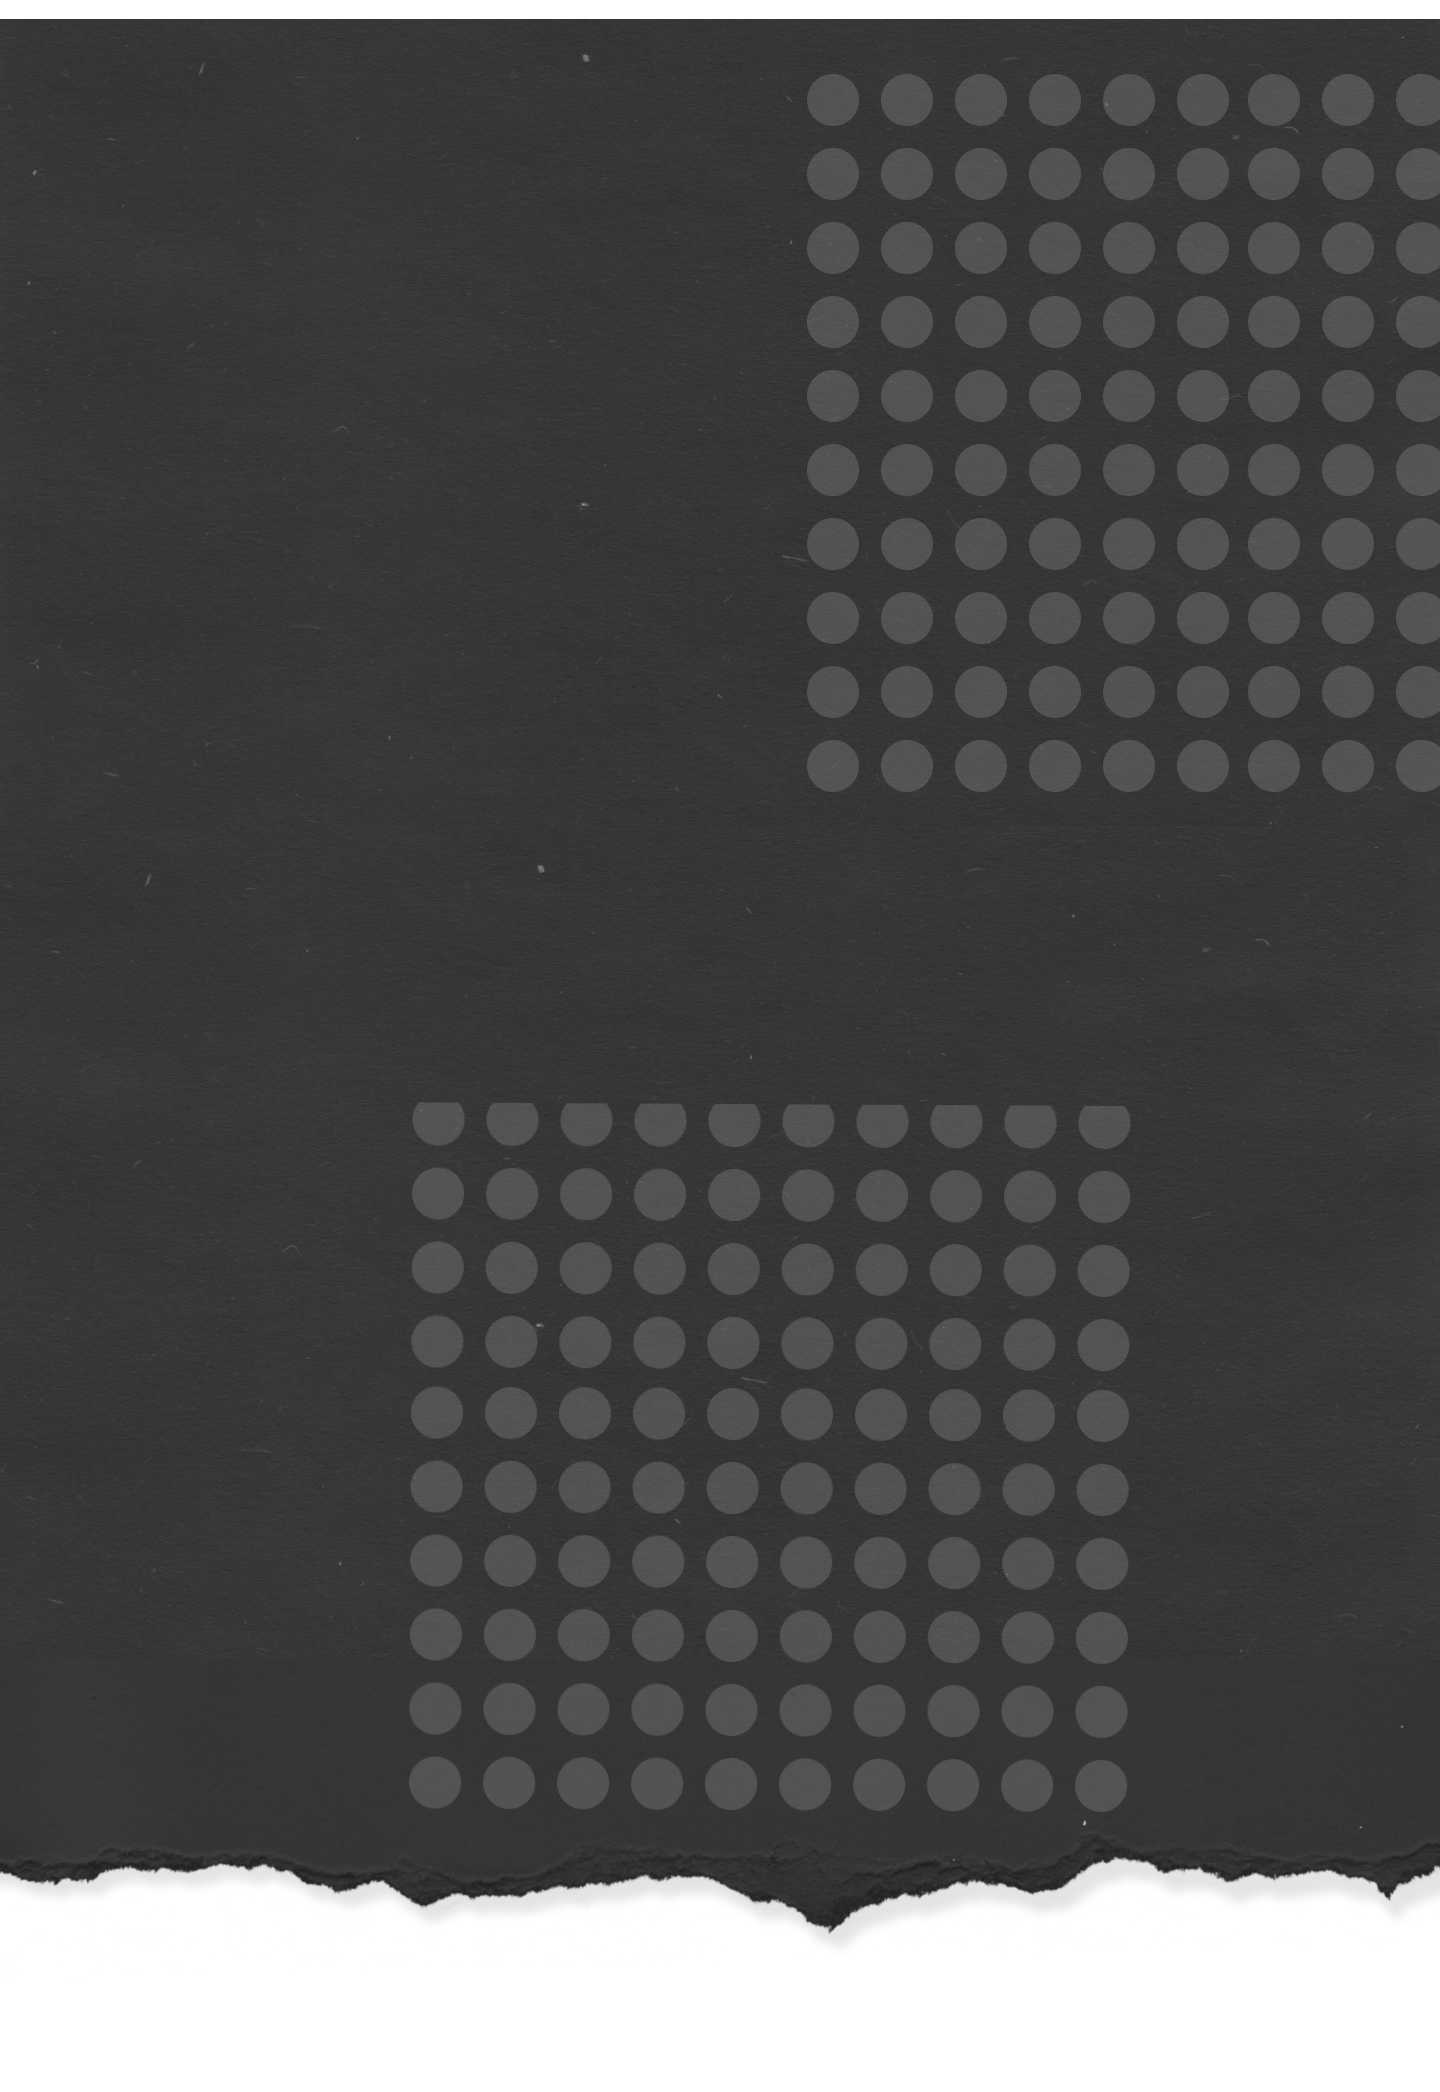
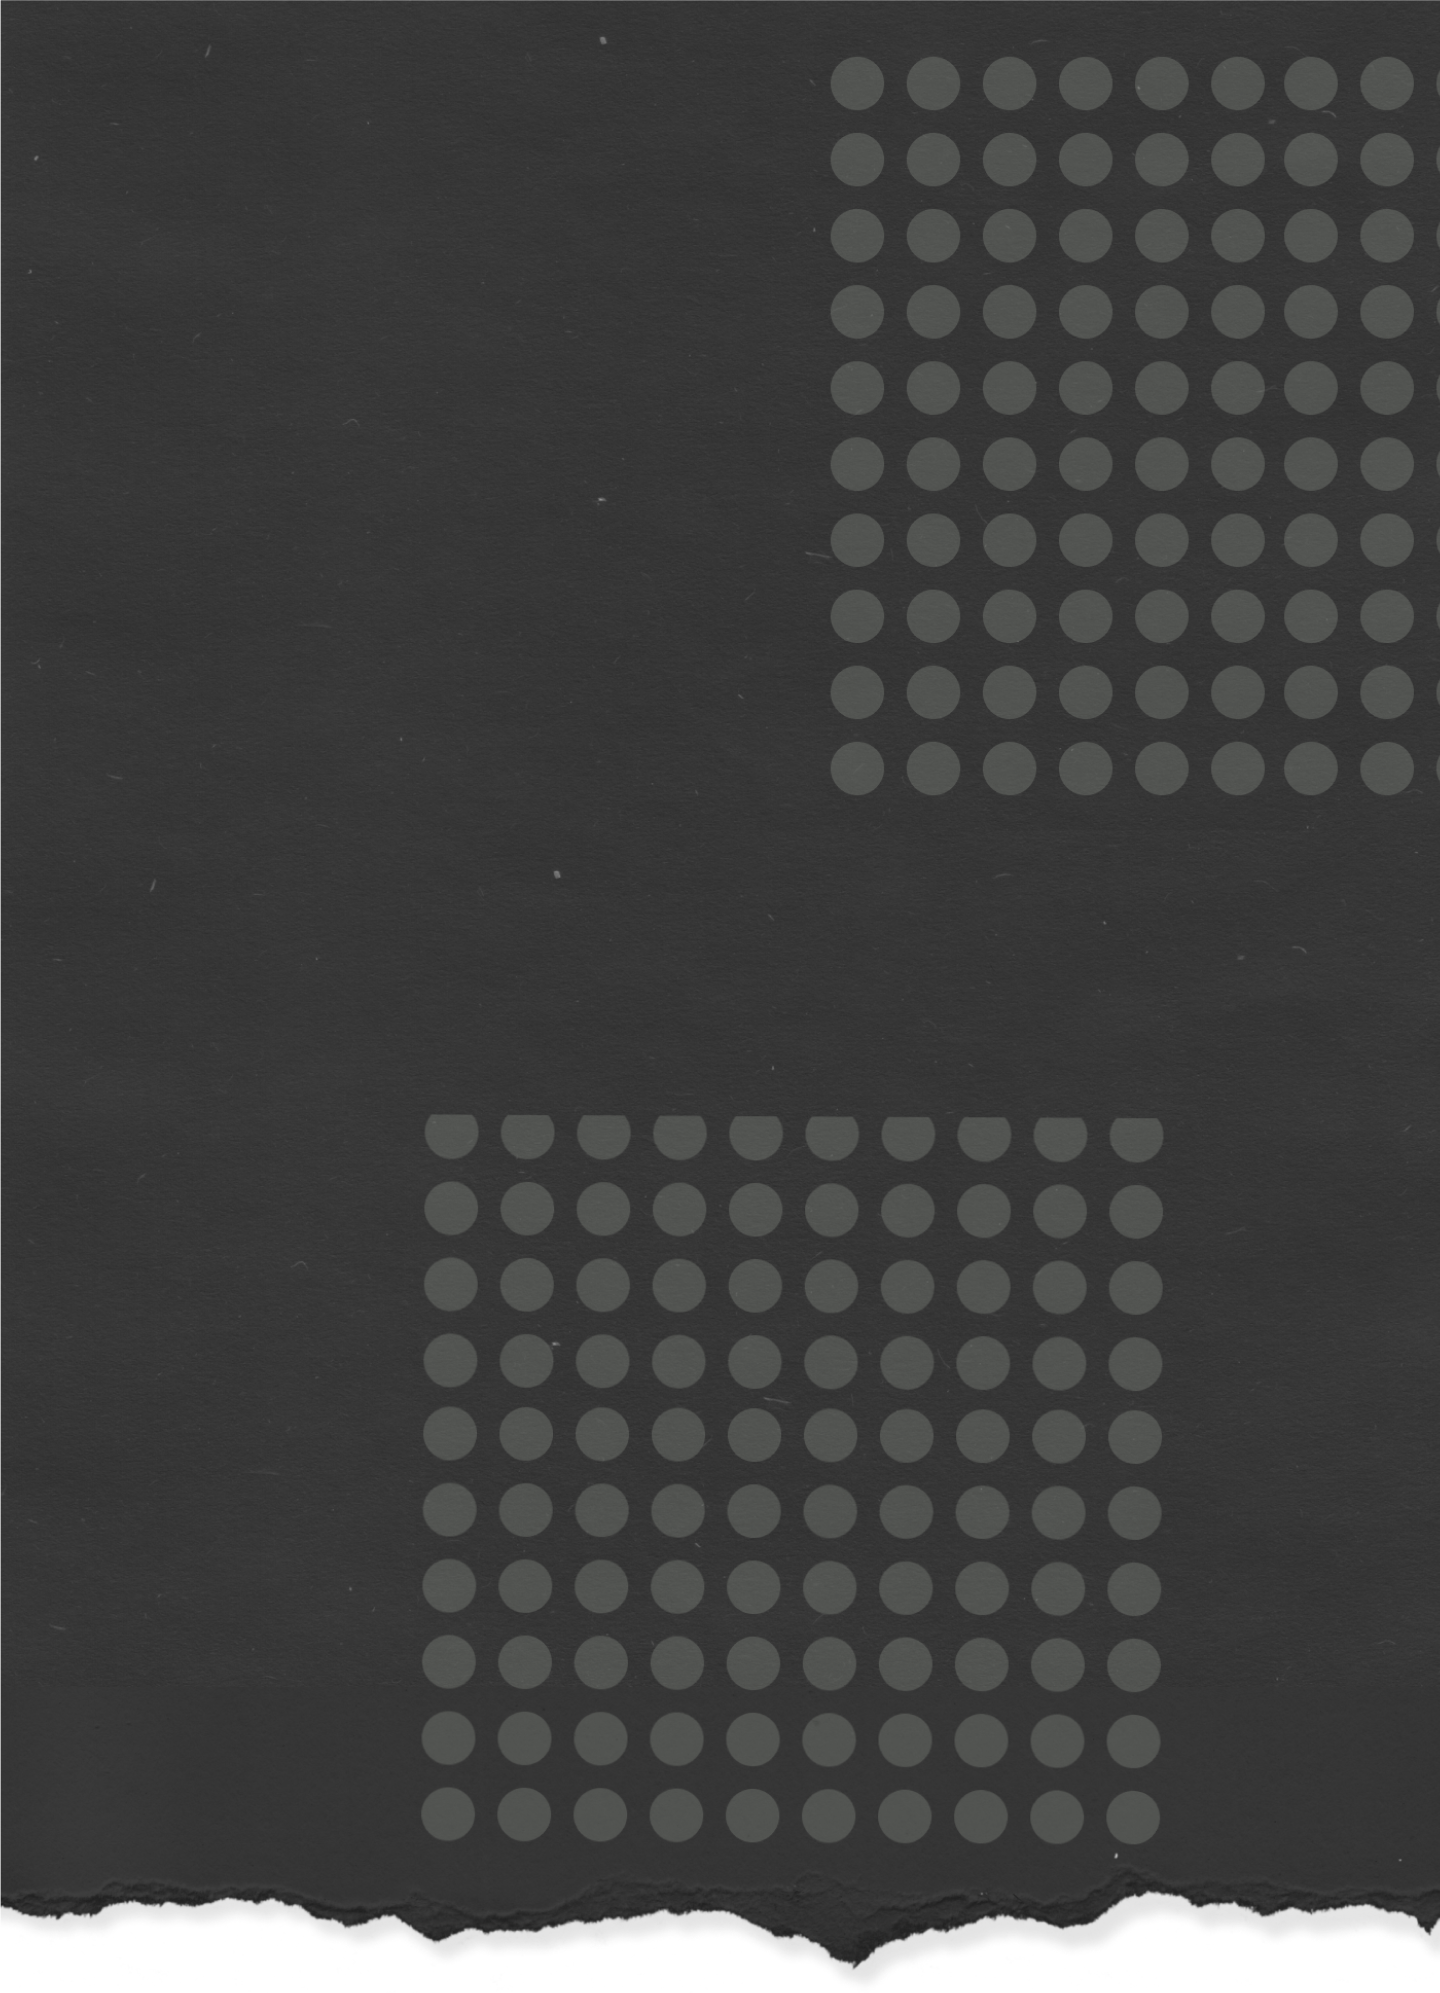
pre-last

Changed region(s): [[0.0, 0.5289, 1.0, 0.9955], [0.0, 0.0, 1.0, 0.4044]]

diff --git a/src/scss/layout/illustrations.scss b/src/scss/layout/illustrations.scss
@@ -1,49 +1,59 @@
 .illustrations {
+    width: 100%;
     position: relative;
-    background: url('../images/bg/bg7.png') center center/100% 100% no-repeat;
-    height: 2092px;
+    background-color: black;
+    background: url('../images/bg/bg7.png') center center/100.1% 100% no-repeat;
+    min-height: 2620px;
+    margin-top: 795px;
 
     &__top {
-        width: 100%;
-        padding: 30px 152px 0 170px;
-        display: flex;
-        flex-direction: row;
-        justify-content: space-between;
-            &-line {
-                margin-top: 10px;
-                display: inline-block;
-                border: 1px solid #FFFFFF;
-                width: 100%;
-                height: 1px;
-                color: #FFFFFF;
-                align-items: center;
-                justify-content: center;
-           
-            }
-            &-text {
-                white-space: nowrap;
-                font-family: 'Michroma';
-                font-weight: 400;
-                font-size: 20px;
-                color: #FFFFFF;
-                align-items: center;
-                margin-left: 30px;
-              }
+      width: 100%;
+      padding: 0 152px 0 170px;
+      position: absolute;
+      top: -25px;
+      display: flex;
+      flex-direction: row;
+      justify-content: space-between;
+        &-line {
+          margin-top: 10px;
+          display: inline-block;
+          border: 1px solid #FFFFFF;
+          width: 100%;
+          height: 1px;
+          color: #FFFFFF;
+          align-items: center;
+          justify-content: center;
+        }
+        &-text {
+          white-space: nowrap;
+          font-family: 'Michroma';
+          font-weight: 400;
+          font-size: 20px;
+          color: #FFFFFF;
+          align-items: center;
+          margin-left: 30px;
+        }
       }
       &__first {
         position: absolute;
-        top: 4%;
+        top: 215px;
+        transform: scale(1.5);
       }
       &__second {
         position: absolute;
-        bottom: 15%;
-        transform: scale(0.95);
+        left: 145px;
+        bottom: 407px;
+        transform: scale(1.25);
       }
       &__third {
         position: absolute;
-        right: 0;
-        top: 25%;
-        // transform: scale(0.95);
-
+        right: 136px;
+        top: 890px;
+        transform: scale(1.5);
+      }
+      &__blob {
+        position: absolute;
+        top: -245px;
+        left: -3px;
       }
 }

diff --git a/src/index.html b/src/index.html
@@ -222,45 +222,33 @@
     <img src="images/UX_UI/phonesnew.png" alt="phones" class="ux__phones">
   </section>
 
-<!-- <section class="rvanie"></section> -->
+  <section id="illustrations" class="illustrations">
+    <img src="images/illustrations/blob_after_phones.png" alt="house" class="illustrations__blob">
+    <div class="illustrations__top">
+      <div class="illustrations__top-line"></div>
+      <div class="illustrations__top-text">Illustrations</div>
+    </div>
+    <img src="images/illustrations/anime_house.png" alt="house" class="illustrations__first">
+    <img src="images/illustrations/anime_red.png" alt="redperson" class="illustrations__second">
+    <img src="images/illustrations/anime_syao.png" alt="syao" class="illustrations__third">
+  </section>
 
-<!-- <section id="illustrations" class="illustrations">
-  <div class="illustrations__top">
-    <div class="illustrations__top-line"></div>
-    <div class="illustrations__top-text">Illustrations</div>
-  </div>
-  <img src="images/illustrations/anime_house.png" alt="house" class="illustrations__first">
-  <img src="images/illustrations/anime_red.png" alt="redperson" class="illustrations__second">
-  <img src="images/illustrations/anime_syao.png" alt="syao" class="illustrations__third">
-</section> -->
+  <section class="end">
+    <div class="end__top">
+      <div class="end__top-line"></div>
+      <div class="end__top-text">Jen Hrviis</div>
+    </div>
+    <img src="images/end/blob8.png" alt="blob" class="end__blob">
 
-
-<!-- <section class="end">
-  <div class="end__top">
-    <div class="end__top-line"></div>
-    <div class="end__top-text">Jen Hrviis</div>
-  </div>
-  <img src="images/end/blob8.png" alt="blob" class="end__blob">
-
-  <div class="end__maintext">
-    <h2 class="end__maintext-subtitle">The end</h2>
-    <h1 class="end__maintext-title">THA<span>N</span>K YOU!</h1>
-    <div class="end__maintext-underline">
+    <div class="end__maintext">
+      <h2 class="end__maintext-subtitle">The end</h2>
+      <h1 class="end__maintext-title">THA<span>N</span>K YOU!</h1>
+      <div class="end__maintext-underline">
         <img src="images/end/final_line.png" alt="line">
       </div>
-  </div>
-  <img src="images/end/blob9.png" alt="blob" class="end__blobdown">
-
-
-</section> -->
-  
- 
-
-
-
-
-
-  
+    </div>
+    <img src="images/end/blob9.png" alt="blob" class="end__blobdown">
+  </section>
 </body>
 </html>
 

diff --git a/src/scss/layout/about.scss b/src/scss/layout/about.scss
@@ -3,12 +3,12 @@
   display: flex;
   justify-content: center;
   &__container {
-    margin-top: 100px;
+    margin-top: 50px;
     display: flex;
     width: 1250px;
-    height: 586px;
-    justify-content: center; 
-    margin-bottom: 20px; 
+    height: 630px;
+    justify-content: center;
+    margin-bottom: 20px;
   }
   &__wrapper {
     margin-left: 45px;
@@ -23,7 +23,7 @@
     &-descr{
       font-family: 'Michroma';
       font-weight: 400;
-      font-size: 16px;
+      font-size: 18px;
       color: #000000;
       width: 665px;
       height: 225px;
@@ -43,18 +43,18 @@
     display: flex;
     width: 603px;
     height: 230px;
-    margin-top: 20px;
+    margin-top: 85px;
   }
   &__skills{
-      width: 180px;
-      &-title{
-          font-family: 'Michroma';
-          font-weight: 400;
-          font-size: 16px;
-          text-decoration-line: underline;
-          color: #000000;
-          margin-bottom: 15px;
-      }
+    width: 180px;
+    &-title{
+      font-family: 'Michroma';
+      font-weight: 400;
+      font-size: 16px;
+      text-decoration-line: underline;
+      color: #000000;
+      margin-bottom: 15px;
+    }
       &-item {
           display: flex;
           flex-direction: row;

diff --git a/src/scss/layout/logo.scss b/src/scss/layout/logo.scss
@@ -14,6 +14,7 @@
         width: 100%;
         height: 1px;
         border: 2px solid #000000;
+        border-top: none;
         background: #000000;
       }
       &-text {
@@ -32,6 +33,7 @@
         width: 100%;
         height: 1px;
         border: 2px solid #000000;
+        border-top: none;
         background: #000000;
       }
     }

diff --git a/src/scss/layout/ux.scss b/src/scss/layout/ux.scss
@@ -96,10 +96,11 @@
     }
     &__phones {
       position: absolute;
-      bottom: -622px;
-      right: -11px;
+      bottom: -690px;
+      right: 45px;
       object-fit: contain;
       width: 90%;
+      transform: scale(1.1);
     }
     &__blobdown {
       position: absolute;
